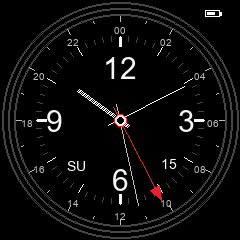
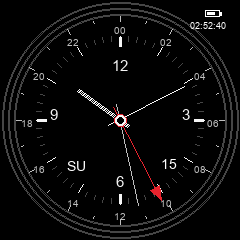
fixes to watch face

diff --git a/tools/render_gmt_watchface_preview.py b/tools/render_gmt_watchface_preview.py
@@ -13,6 +13,8 @@ CY = H // 2
 
 DEFAULT_TRUE_UTC = True
 LOCAL_TO_UTC_OFFSET_HOURS = 0
+BATTERY_CAPACITY_MAH = 350.0
+DEFAULT_FULL_RUNTIME_SECONDS = 24 * 60 * 60
 
 
 def point_xy(angle_deg: float, radius: int) -> tuple[int, int]:
@@ -59,6 +61,31 @@ def load_font(size: int) -> ImageFont.ImageFont:
         except OSError:
             continue
     return ImageFont.load_default()
+
+
+def estimate_battery_seconds_remaining(pct: int, charging: bool, charge_current_ma: float = 350.0, discharge_current_ma: float = 90.0) -> int:
+    pct = max(0, min(100, pct))
+    ratio = pct / 100.0
+    seconds = ratio * DEFAULT_FULL_RUNTIME_SECONDS
+
+    if charging:
+        if charge_current_ma > 1.0:
+            seconds = ((100.0 - pct) / 100.0) * BATTERY_CAPACITY_MAH / charge_current_ma * 3600.0
+        else:
+            seconds = (1.0 - ratio) * DEFAULT_FULL_RUNTIME_SECONDS
+    else:
+        if discharge_current_ma > 1.0:
+            seconds = ratio * BATTERY_CAPACITY_MAH / discharge_current_ma * 3600.0
+
+    seconds = max(0.0, min(359999.0, seconds))
+    return int(seconds)
+
+
+def format_hms(total_seconds: int) -> str:
+    hours = total_seconds // 3600
+    minutes = (total_seconds % 3600) // 60
+    seconds = total_seconds % 60
+    return f"{hours:02d}:{minutes:02d}:{seconds:02d}"
 
 
 def draw_gmt_arrow(draw: ImageDraw.ImageDraw, angle_deg: float) -> None:
@@ -121,11 +148,11 @@ def draw_face(hour: int, minute: int, second: int, day: int, month: int, year: i
     for i in range(4):
         draw_hand(draw, i * 90.0, 83, -74, 3, c_white)
 
-    font_big = load_font(30)
+    font_big = load_font(15)
     draw_centered(draw, "12", CX, CY - 58, font_big, c_white)
-    draw_centered(draw, "9", CX - 66, CY - 5, font_big, c_white)
-    draw_centered(draw, "6", CX, CY + 54, font_big, c_white)
-    draw_centered(draw, "3", CX + 66, CY - 5, font_big, c_white)
+    draw_centered(draw, "9", CX - 66, CY - 9, font_big, c_white)
+    draw_centered(draw, "6", CX, CY + 58, font_big, c_white)
+    draw_centered(draw, "3", CX + 66, CY - 9, font_big, c_white)
 
     win_cx, win_cy = 169, 161
     draw_centered(draw, f"{day:02d}", win_cx, win_cy, load_font(14), (255, 255, 255))
@@ -147,6 +174,8 @@ def draw_face(hour: int, minute: int, second: int, day: int, month: int, year: i
     if charging:
         bolt = [(bx + 7, by + 1), (bx + 5, by + 3), (bx + 8, by + 3), (bx + 6, by + 5)]
         draw.line(bolt, fill=(240, 220, 40), width=1)
+    remain_text = format_hms(estimate_battery_seconds_remaining(battery, charging))
+    draw.text((W - 2 - (len(remain_text) * 6), by + bh + 4), remain_text, font=load_font(9), fill=(255, 255, 255))
 
     second_angle = second * 6.0
     minute_angle = (minute + second / 60.0) * 6.0

diff --git a/examples/LVGL/GMTWatchFace/config.h b/examples/LVGL/GMTWatchFace/config.h
@@ -1,7 +1,7 @@
 // => Hardware select
 // #define LILYGO_WATCH_2019_WITH_TOUCH     // To use T-Watch2019 with touchscreen, please uncomment this line
 // #define LILYGO_WATCH_2019_NO_TOUCH       // To use T-Watch2019 Not touchscreen , please uncomment this line
-// #define LILYGO_WATCH_2020_V1             // To use T-Watch2020 V1, please uncomment this line
+#define LILYGO_WATCH_2020_V1               // To use T-Watch2020 V1, please uncomment this line
 // #define LILYGO_WATCH_2020_V2             // To use T-Watch2020 V2, please uncomment this line
 // #define LILYGO_WATCH_2020_V3             // To use T-Watch2020 V3, please uncomment this line
 

diff --git a/src/avr/pgmspace.h b/src/avr/pgmspace.h
@@ -1,0 +1,7 @@
+#pragma once
+
+#if defined(ESP32) || defined(ESP8266) || defined(ARDUINO_ARCH_ESP32) || defined(ARDUINO_ARCH_ESP8266)
+#include <pgmspace.h>
+#else
+#include_next <avr/pgmspace.h>
+#endif
